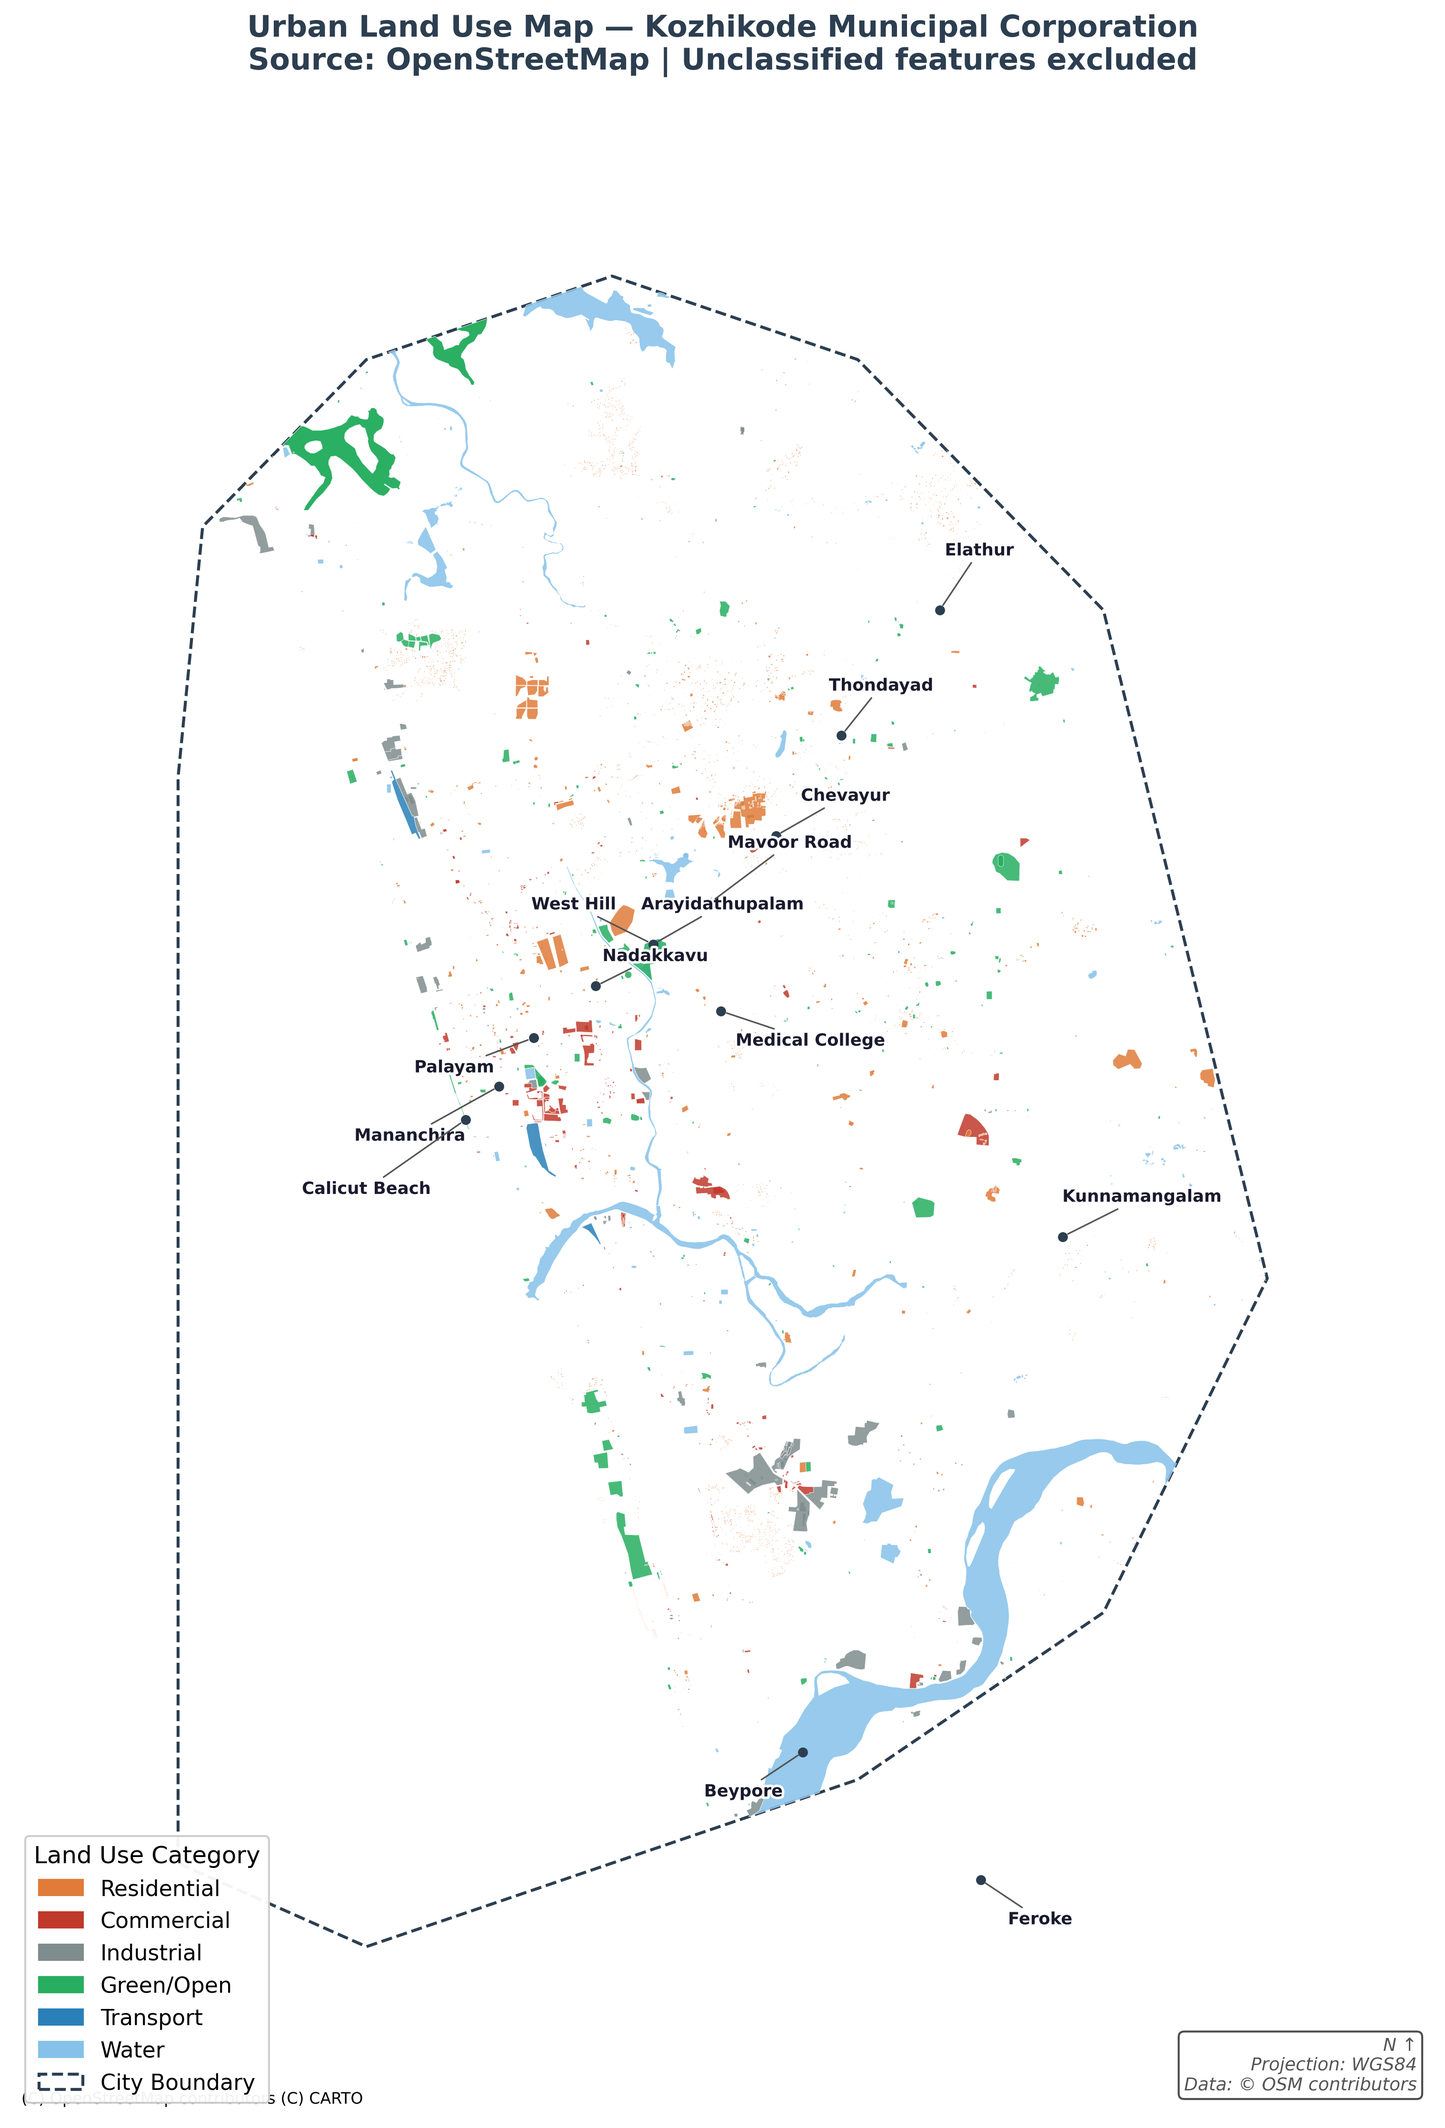
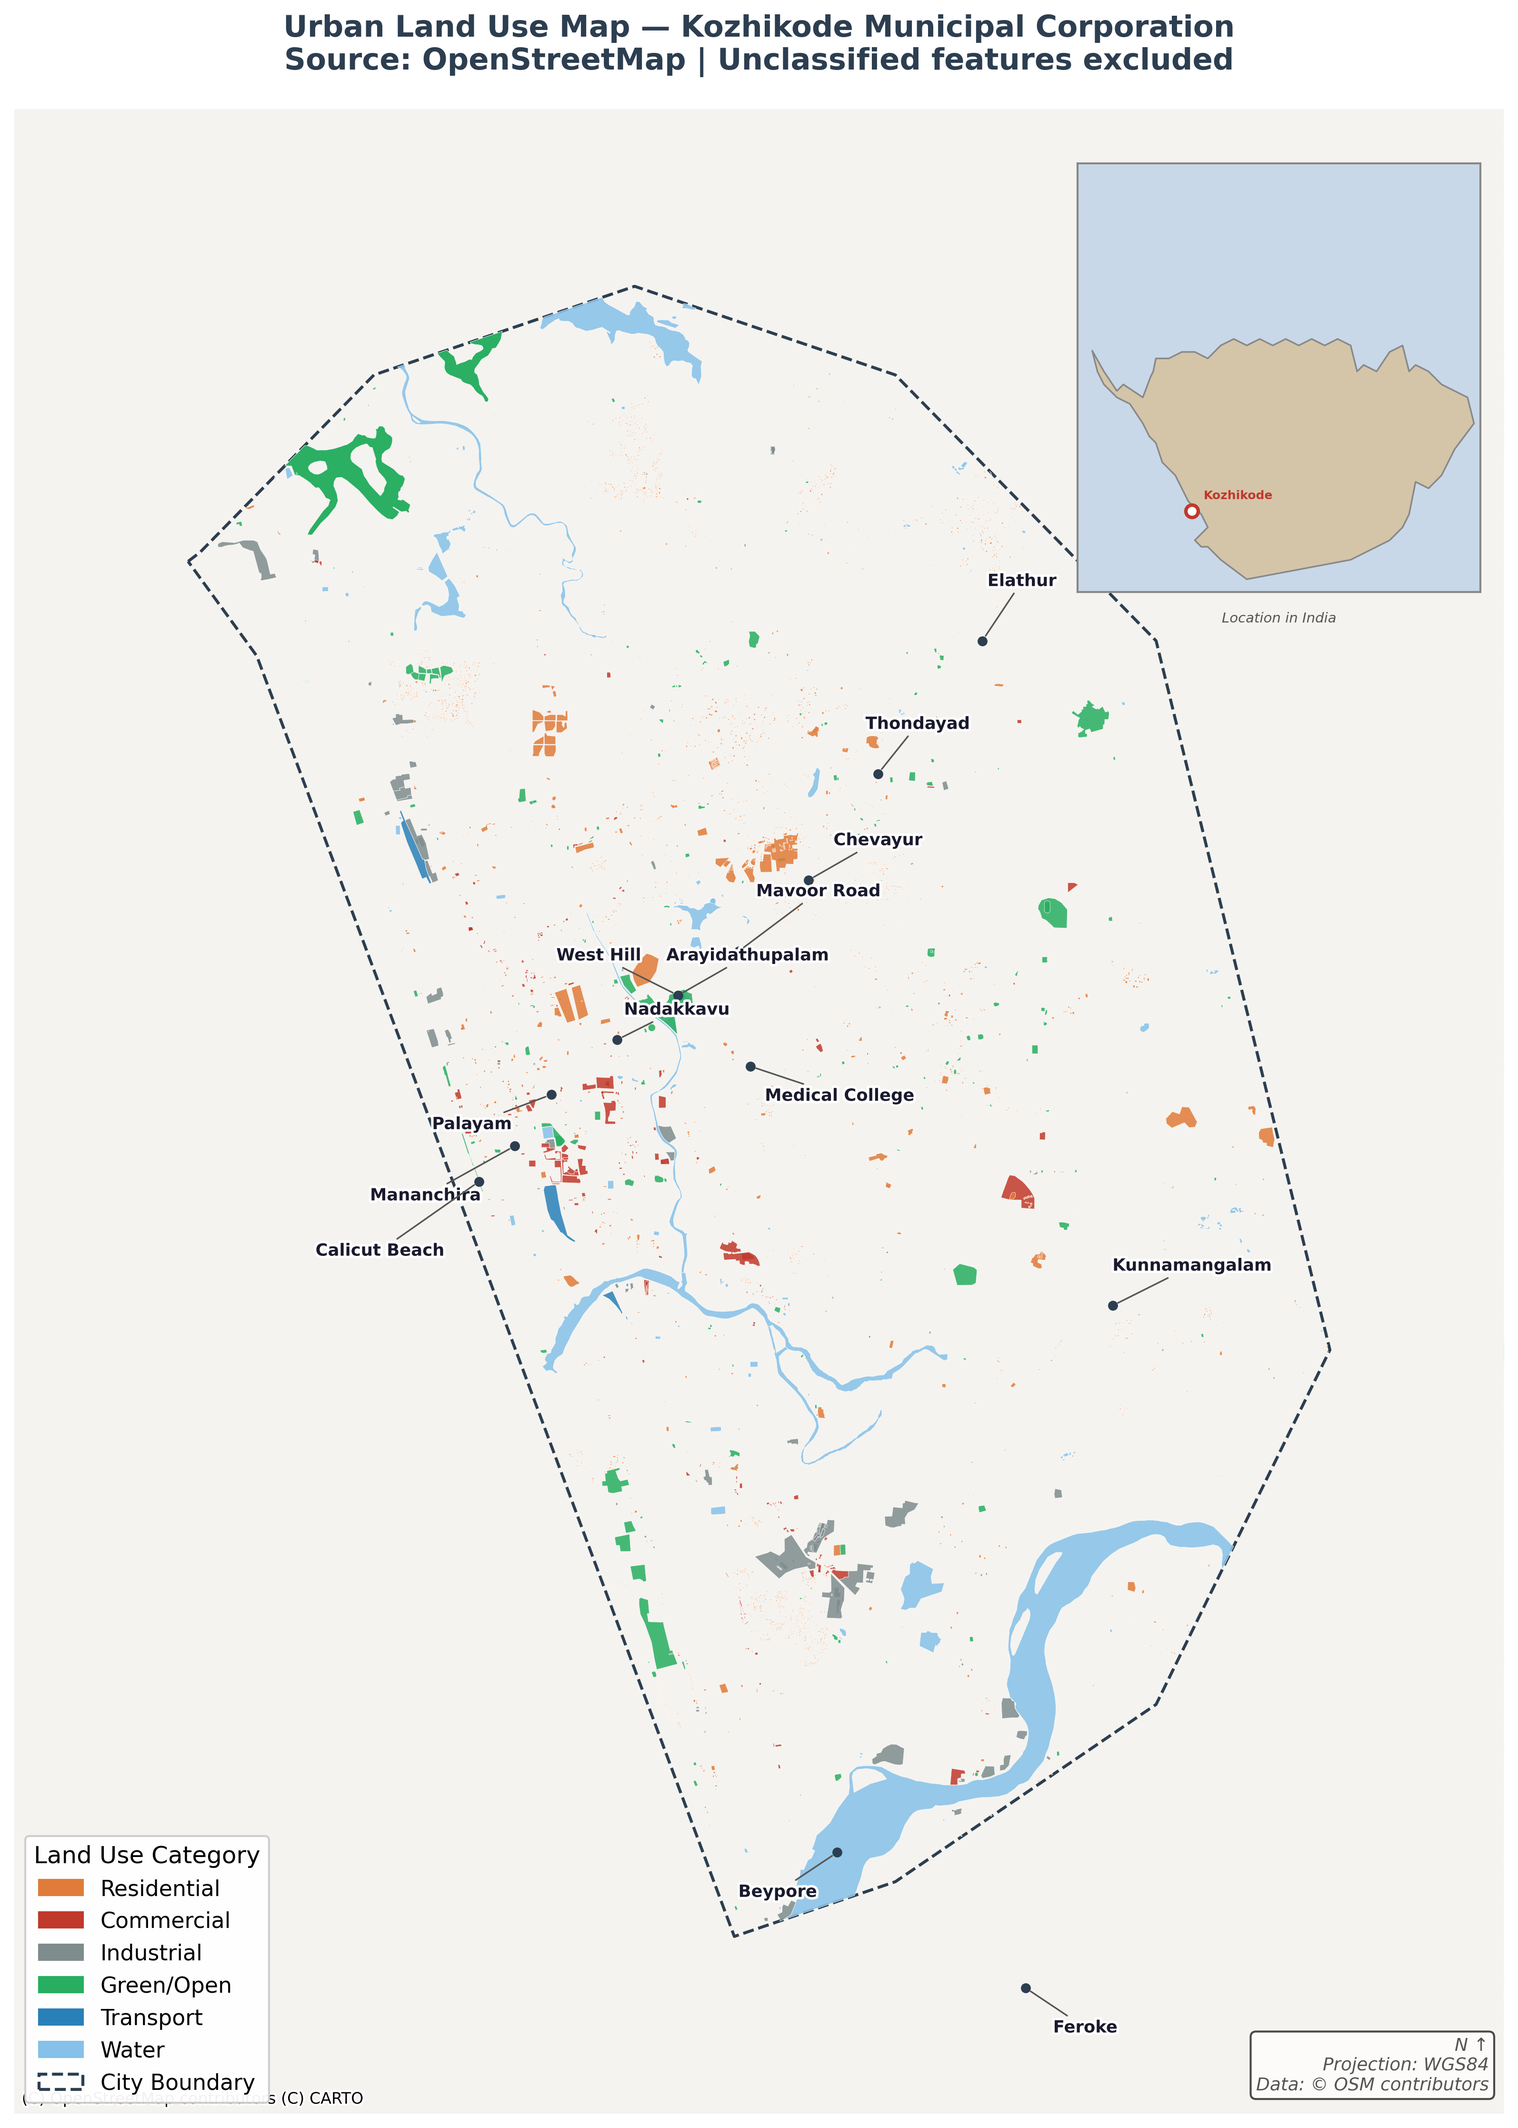
Fix:Indian map added.

diff --git a/Day1_Landuse_Calicut/scripts/03_map.py b/Day1_Landuse_Calicut/scripts/03_map.py
@@ -5,7 +5,8 @@ import matplotlib.patheffects as pe
 import contextily as ctx
 import pandas as pd
 import numpy as np
-from shapely.geometry import Point, box
+import geodatasets
+from shapely.geometry import Point, box, Polygon
 from shapely.ops import unary_union
 from matplotlib.patches import PathPatch
 from matplotlib.path import Path
@@ -16,8 +17,23 @@ gdf_wgs = gdf.to_crs(epsg=4326)
 
 city = gpd.read_file('data/raw/kozhikode_boundary.geojson')
 city_wgs = city.to_crs(epsg=4326)
-gdf_wgs = gpd.clip(gdf_wgs, city_wgs)
 
+# ── Clip city boundary to land only (removes sea) ────────────────────────────
+print("Clipping city boundary to coastline...")
+land = gpd.read_file(geodatasets.get_path('naturalearth.land'))
+land_wgs = land.to_crs(epsg=4326)
+local_box = box(75.5, 11.0, 76.1, 11.6)
+land_local = land_wgs.clip(local_box)
+land_union = unary_union(land_local.geometry)
+
+# Clip the city polygon to land — sea pixels become empty
+city_clipped = city_wgs.copy()
+city_clipped['geometry'] = city_wgs.geometry.intersection(land_union)
+city_clipped = city_clipped[~city_clipped.geometry.is_empty]
+print(f"City clipped to land. Area: {city_clipped.to_crs(epsg=32643).geometry.area.sum()/1e6:.1f} km²")
+
+# Re-clip features to the land-only boundary
+gdf_wgs = gpd.clip(gdf_wgs, city_clipped)
 gdf_plot = gdf_wgs[gdf_wgs['landuse_class'] != 'Other'].copy()
 print("Features being plotted:")
 print(gdf_plot['landuse_class'].value_counts())
@@ -35,12 +51,15 @@ color_map = {
 # ── Main figure ───────────────────────────────────────────────────────────────
 fig, ax = plt.subplots(1, 1, figsize=(13, 15))
 
-minx, miny, maxx, maxy = city_wgs.total_bounds
+minx, miny, maxx, maxy = city_clipped.total_bounds
 pad = 0.02
 ax.set_xlim(minx - pad, maxx + pad)
 ax.set_ylim(miny - pad, maxy + pad)
 
-# ── 1. Basemap ────────────────────────────────────────────────────────────────
+# ── 1. Sea colour background ──────────────────────────────────────────────────
+ax.set_facecolor('#C8D8E8')
+
+# ── 2. Basemap ────────────────────────────────────────────────────────────────
 ctx.add_basemap(
     ax,
     crs=gdf_wgs.crs.to_string(),
@@ -49,7 +68,7 @@ ctx.add_basemap(
     zorder=1
 )
 
-# ── 2. White mask outside city boundary ──────────────────────────────────────
+# ── 3. White mask outside city boundary ──────────────────────────────────────
 def polygon_to_patch(geom, **kwargs):
     if geom.geom_type == 'MultiPolygon':
         paths = []
@@ -68,16 +87,19 @@ def polygon_to_patch(geom, **kwargs):
         return PathPatch(Path(ext, codes), **kwargs)
 
 big_box = box(minx - pad, miny - pad, maxx + pad, maxy + pad)
-city_union = unary_union(city_wgs.geometry)
+city_union = unary_union(city_clipped.geometry)
 mask_geom = big_box.difference(city_union)
+
+# Land outside city = light grey
 ax.add_patch(polygon_to_patch(
-    mask_geom, facecolor='white', edgecolor='none', zorder=2, linewidth=0
+    mask_geom, facecolor='#F5F3EF', edgecolor='none', zorder=2, linewidth=0
 ))
 
-# ── 3. City boundary ──────────────────────────────────────────────────────────
-city_wgs.boundary.plot(ax=ax, color='#2C3E50', linewidth=1.5, linestyle='--', zorder=3)
+# ── 4. City boundary ──────────────────────────────────────────────────────────
+city_clipped.boundary.plot(ax=ax, color='#2C3E50', linewidth=1.5,
+                            linestyle='--', zorder=3)
 
-# ── 4. Land use features ──────────────────────────────────────────────────────
+# ── 5. Land use features ──────────────────────────────────────────────────────
 layer_order = ['Water', 'Green/Open', 'Transport', 'Industrial', 'Commercial', 'Residential']
 for i, cat in enumerate(layer_order):
     subset = gdf_plot[gdf_plot['landuse_class'] == cat]
@@ -86,7 +108,7 @@ for i, cat in enumerate(layer_order):
     subset.plot(ax=ax, color=color_map[cat], alpha=0.85,
                 linewidth=0.2, edgecolor='white', zorder=4+i)
 
-# ── 5. Place labels ───────────────────────────────────────────────────────────
+# ── 6. Place labels ───────────────────────────────────────────────────────────
 known_places = pd.DataFrame({
     'name': [
         'Palayam', 'Mananchira', 'Calicut Beach', 'Nadakkavu',
@@ -128,46 +150,53 @@ for idx, row in places_wgs.iterrows():
         zorder=12
     )
 
-# ── 6. India inset map ────────────────────────────────────────────────────────
-# DELETE this:
-ax_inset = inset_axes(ax, width="22%", height="22%", loc='upper right',
-                      bbox_to_anchor=ax.bbox, bbox_transform=ax.transAxes)
-try:
-    # Download India boundary from Natural Earth via geopandas datasets
-    import geodatasets
-    world = gpd.read_file(geodatasets.get_path('naturalearth.land'))
-    india = world[world.geometry.intersects(
-        box(68, 6, 98, 38)
-    )].copy()
-    india.plot(ax=ax_inset, color='#F0F0F0', edgecolor='#AAAAAA', linewidth=0.5)
-except Exception:
-    # Fallback — download directly
-    try:
-        url = "https://raw.githubusercontent.com/datasets/geo-countries/master/data/countries.geojson"
-        world = gpd.read_file(url)
-        india = world[world['ADMIN'] == 'India']
-        india.plot(ax=ax_inset, color='#F0F0F0', edgecolor='#AAAAAA', linewidth=0.5)
-    except Exception:
-        # Final fallback — just draw a box
-        ax_inset.set_facecolor('#E8F4F8')
+# ── 7. India inset — hand-drawn polygon (no download needed) ─────────────────
+ax_inset = fig.add_axes([0.67, 0.72, 0.22, 0.20])
 
-# Plot Kozhikode marker on inset
-ax_inset.plot(75.78, 11.25, 'o', color='#C0392B', markersize=6, zorder=5)
-ax_inset.plot(75.78, 11.25, 'o', color='white', markersize=3, zorder=6)
+# India outline as a hand-drawn approximate polygon
+india_coords = [
+    (68.1, 23.6), (69.0, 22.0), (70.0, 20.5), (70.5, 21.0),
+    (72.0, 20.0), (72.6, 21.6), (72.8, 22.0), (73.0, 23.0),
+    (74.0, 23.0), (75.0, 23.5), (76.0, 23.5), (77.0, 23.0),
+    (78.0, 24.0), (79.0, 24.5), (80.0, 24.0), (81.0, 24.5),
+    (82.0, 24.0), (83.0, 24.5), (84.0, 24.0), (85.0, 24.5),
+    (86.0, 24.0), (87.0, 24.5), (88.0, 24.0), (88.5, 22.0),
+    (89.0, 22.5), (90.0, 22.0), (91.0, 23.5), (92.0, 24.0),
+    (92.5, 22.0), (93.0, 22.5), (94.0, 22.0), (95.0, 21.0),
+    (97.0, 20.0), (97.5, 18.0), (96.0, 16.0), (95.0, 14.0),
+    (94.0, 13.0), (93.0, 13.5), (92.5, 11.0), (92.0, 10.0),
+    (91.0, 9.0),  (90.0, 8.5),  (89.0, 8.0),  (88.0, 7.5),
+    (80.0, 6.0),  (78.0, 7.5),  (77.5, 8.0),  (77.0, 8.5),
+    (76.5, 8.5),  (76.0, 9.0),  (77.0, 10.0), (76.5, 11.0),
+    (75.5, 12.0), (74.5, 14.0), (73.5, 15.0), (73.0, 16.5),
+    (72.5, 17.0), (72.0, 18.0), (71.0, 19.5), (70.0, 20.0),
+    (69.0, 21.0), (68.5, 22.0), (68.1, 23.6),
+]
 
-# Zoom inset to India extent
-ax_inset.set_xlim(68, 98)
-ax_inset.set_ylim(6, 38)
+india_poly = Polygon(india_coords)
+india_gdf = gpd.GeoDataFrame(geometry=[india_poly], crs='EPSG:4326')
+
+ax_inset.set_facecolor('#C8D8E8')  # sea blue
+india_gdf.plot(ax=ax_inset, color='#D4C5A9', edgecolor='#888888',
+               linewidth=0.8, zorder=2)
+
+# Kozhikode marker
+ax_inset.plot(75.78, 11.25, 'o', color='#C0392B', markersize=7, zorder=5)
+ax_inset.plot(75.78, 11.25, 'o', color='white', markersize=3.5, zorder=6)
+ax_inset.annotate('Kozhikode', xy=(75.78, 11.25),
+                  xytext=(6, 6), textcoords='offset points',
+                  fontsize=6, color='#C0392B', fontweight='bold',
+                  zorder=7)
+
+ax_inset.set_xlim(67, 98)
+ax_inset.set_ylim(5, 38)
 ax_inset.set_aspect('equal')
 ax_inset.set_xticks([])
 ax_inset.set_yticks([])
-ax_inset.set_facecolor('#D6EAF8')  # light blue sea colour
 for spine in ax_inset.spines.values():
-    spine.set_edgecolor('#AAAAAA')
-    spine.set_linewidth(0.8)
-
-# Label
-ax_inset.text(0.5, -0.06, 'Location in India',
+    spine.set_edgecolor('#888888')
+    spine.set_linewidth(1)
+ax_inset.text(0.5, -0.07, 'Location in India',
               transform=ax_inset.transAxes,
               ha='center', fontsize=7, color='#555555', style='italic')
 

diff --git a/Day1_Landuse_Calicut/scripts/01_fetch_osm.py b/Day1_Landuse_Calicut/scripts/01_fetch_osm.py
@@ -1,47 +1,82 @@
 import osmnx as ox
 import geopandas as gpd
 import pandas as pd
-from shapely.geometry import Polygon
+import numpy as np
+from shapely.geometry import Polygon, box
+from shapely.ops import unary_union
 import warnings
 warnings.filterwarnings('ignore')
 
-# ── Define KMC boundary (land only — no sea on west) ─────────────────────────
-# Coastline runs roughly at lon 75.737 for Kozhikode
-# Western edge follows the coast, not extending into the sea
-
+# ── Step 1: Define broad KMC envelope (intentionally includes sea) ────────────
 kozhikode_kmc_coords = [
-    (75.7370, 11.1600),   # SW coast — Ramanattukara
-    (75.7600, 11.1500),   # South
-    (75.8200, 11.1700),   # Feroke east
-    (75.8500, 11.1900),   # East boundary south
-    (75.8700, 11.2300),   # East boundary mid
-    (75.8600, 11.2700),   # Kunnamangalam area
-    (75.8500, 11.3100),   # Elathur east
-    (75.8200, 11.3400),   # North east
-    (75.7900, 11.3500),   # North
-    (75.7600, 11.3400),   # North west
-    (75.7400, 11.3200),   # West north — coast
-    (75.7370, 11.2900),   # Coast mid-north
-    (75.7370, 11.2600),   # Coast — Calicut Beach area
-    (75.7370, 11.2300),   # Coast mid-south
-    (75.7370, 11.1900),   # Coast south
-    (75.7370, 11.1600),   # back to SW start
+    (75.7000, 11.1600),   # SW — extends into sea
+    (75.7600, 11.1500),
+    (75.8200, 11.1700),
+    (75.8500, 11.1900),
+    (75.8700, 11.2300),
+    (75.8600, 11.2700),
+    (75.8500, 11.3100),
+    (75.8200, 11.3400),
+    (75.7900, 11.3500),
+    (75.7600, 11.3400),
+    (75.7400, 11.3200),
+    (75.7000, 11.2900),
+    (75.7000, 11.2600),
+    (75.7000, 11.2300),
+    (75.7000, 11.1900),
+    (75.7000, 11.1600),
 ]
-
 kmc_polygon = Polygon(kozhikode_kmc_coords)
+
+# ── Step 2: Get land geometry from Natural Earth to clip away the sea ─────────
+print("Fetching land mask to clip coastline...")
+try:
+    import geodatasets
+    land = gpd.read_file(geodatasets.get_path('naturalearth.land'))
+    land_wgs = land.to_crs(epsg=4326)
+    # Clip to India region only for speed
+    india_box = box(74, 10, 77, 13)
+    land_local = land_wgs.clip(india_box)
+    land_union = unary_union(land_local.geometry)
+    # Clip the KMC polygon to land only — removes sea
+    kmc_land_only = kmc_polygon.intersection(land_union)
+    print(f"Coastline clip successful.")
+except Exception as e:
+    print(f"Land mask failed ({e}), using manual coastal trim instead.")
+    # Manual fallback: shift western edge to ~coastline longitude
+    kozhikode_kmc_coords_land = [
+        (75.7380, 11.1600),
+        (75.7600, 11.1500),
+        (75.8200, 11.1700),
+        (75.8500, 11.1900),
+        (75.8700, 11.2300),
+        (75.8600, 11.2700),
+        (75.8500, 11.3100),
+        (75.8200, 11.3400),
+        (75.7900, 11.3500),
+        (75.7600, 11.3400),
+        (75.7400, 11.3200),
+        (75.7380, 11.2900),
+        (75.7380, 11.2600),
+        (75.7380, 11.2300),
+        (75.7380, 11.1900),
+        (75.7380, 11.1600),
+    ]
+    kmc_land_only = Polygon(kozhikode_kmc_coords_land)
+
+# ── Step 3: Save the land-only boundary ──────────────────────────────────────
 city = gpd.GeoDataFrame(
     {'name': ['Kozhikode Municipal Corporation']},
-    geometry=[kmc_polygon],
+    geometry=[kmc_land_only],
     crs='EPSG:4326'
 )
-
 area_km2 = city.to_crs(epsg=32643).geometry.area.sum() / 1e6
-print(f"KMC boundary area: {area_km2:.1f} km²")
+print(f"Final KMC boundary area: {area_km2:.1f} km²")
 city.to_file('data/raw/kozhikode_boundary.geojson', driver='GeoJSON')
-print("Boundary saved.")
+print("Boundary saved to data/raw/kozhikode_boundary.geojson")
 
-# ── Fetch OSM features ────────────────────────────────────────────────────────
-print("\nFetching OSM features...")
+# ── Step 4: Fetch OSM features ────────────────────────────────────────────────
+print("\nFetching OSM features within boundary...")
 polygon = city.geometry.iloc[0]
 
 tags_list = [
@@ -64,3 +99,5 @@ if all_features:
     combined = pd.concat(all_features)
     combined.to_file('data/raw/osm_features.geojson', driver='GeoJSON')
     print(f"\nTotal features saved: {len(combined)}")
+else:
+    print("No features fetched.")

diff --git a/Day1_Landuse_Calicut/scripts/test.py b/Day1_Landuse_Calicut/scripts/test.py
@@ -1,0 +1,26 @@
+# save as scripts/test_geodatasets.py and run it
+import geodatasets
+import geopandas as gpd
+
+print("Available datasets:")
+print(dir(geodatasets))
+
+# Try loading
+try:
+    path = geodatasets.get_path('naturalearth.land')
+    print(f"\nnaturalearth.land path: {path}")
+    gdf = gpd.read_file(path)
+    print(f"Columns: {gdf.columns.tolist()}")
+    print(f"Rows: {len(gdf)}")
+    print(gdf.head(2))
+except Exception as e:
+    print(f"naturalearth.land failed: {e}")
+
+try:
+    path = geodatasets.get_path('naturalearth.countries')
+    print(f"\nnaturalearth.countries path: {path}")
+    gdf = gpd.read_file(path)
+    print(f"Columns: {gdf.columns.tolist()}")
+    print(gdf[gdf.columns[0]].head(10))
+except Exception as e:
+    print(f"naturalearth.countries failed: {e}")
